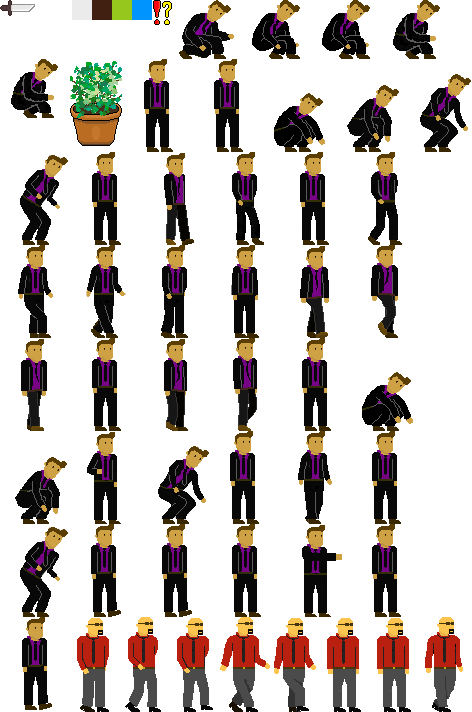
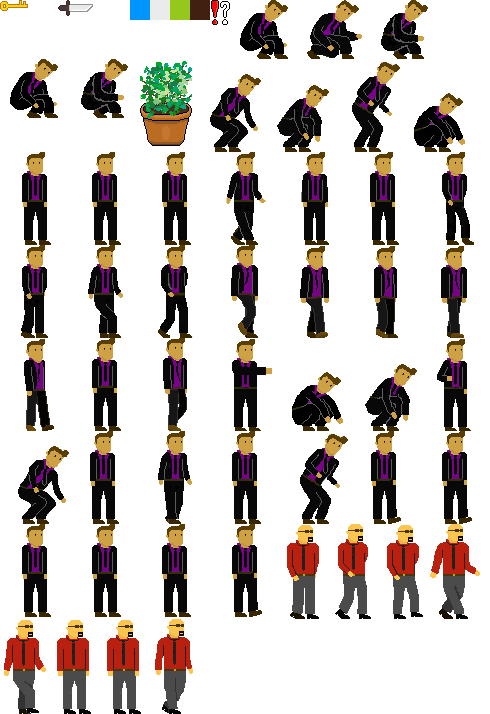
Added keys to the game.

diff --git a/Mafia House - Electric Lemon Studios/Classes/Item.cpp b/Mafia House - Electric Lemon Studios/Classes/Item.cpp
@@ -24,12 +24,7 @@ void Item::initObject(Vec2 startPos)
 	GameObject::initObject(startPos);
 	retain();
 	initRadius();
-	Texture2D::TexParams texParams = { GL_NEAREST, GL_NEAREST, GL_CLAMP_TO_EDGE, GL_CLAMP_TO_EDGE };
-	outline = Sprite::createWithSpriteFrameName("items/knife_outline.png");
-	outline->getTexture()->setTexParameters(texParams);
-	outline->setPositionNormalized(Vec2(0.5, 0.5));
-	outline->setGlobalZOrder(6);
-	addChild(outline);
+	createOutline(outlineName);
 }
 //initializing pickup radius:
 void Item::initRadius() {
@@ -48,6 +43,15 @@ void Item::initRadius() {
 	pickUpRadius->setPhysicsBody(pickUpRadiusBody);
 
 	addChild(pickUpRadius);
+}
+
+void Item::createOutline(string name) {
+	Texture2D::TexParams texParams = { GL_NEAREST, GL_NEAREST, GL_CLAMP_TO_EDGE, GL_CLAMP_TO_EDGE };
+	outline = Sprite::createWithSpriteFrameName(name);
+	outline->getTexture()->setTexParameters(texParams);
+	outline->setPositionNormalized(Vec2(0.5, 0.5));
+	outline->setGlobalZOrder(6);
+	addChild(outline);
 }
 
 //used when player picks up item
@@ -172,17 +176,35 @@ void Item::swingSequence() {
 //Knife Class:
 Knife::Knife()
 {
+	outlineName = "items/knife_outline.png";
 	Item::Item();
-	category = 32;
-	collision = 8;
 	hp = 2;
 	dmg = 5;
 	canBreakDoor = true;//temporary
 	tag = 10100;//10100 - 10199 for knives
+	effect = KILL;
 	attackType = STAB;
 	startTime = 6 FRAMES;
 	attackTime = 8 FRAMES;
 	lagTime = 10 FRAMES;
 }
 Knife::~Knife(){
+}
+
+//Knife Class:
+Key::Key()
+{
+	outlineName = "items/key_outline.png";
+	Item::Item();
+	isKey = true;
+	hp = 1;
+	dmg = 0;
+	tag = 10200;//10200 - 10299 for keys
+	effect = NONE;
+	attackType = STAB;
+	startTime = 4 FRAMES;
+	attackTime = 6 FRAMES;
+	lagTime = 6 FRAMES;
+}
+Key::~Key() {
 }

diff --git a/Mafia House - Electric Lemon Studios/Classes/Item.h b/Mafia House - Electric Lemon Studios/Classes/Item.h
@@ -12,6 +12,8 @@ public:
 	void initObject(Vec2 startPos = Vec2(0,0));
 	void initRadius();
 
+	virtual void createOutline(string name);
+
 	enum AttackType {
 		STAB,
 		SWING
@@ -66,8 +68,10 @@ public:
 
 protected:
 	State state = GROUND;
+	Effect effect = KILL;
 	Node * pickUpRadius;
 	Sprite* outline;
+	string outlineName;
 	//attack/use action parameters:
 	AttackType attackType;
 	float startTime;//startup time of attack
@@ -83,4 +87,13 @@ public:
 	CREATE_SPRITE_FUNC(Knife, "knife2.png");
 	CREATE_WITH_FRAME(Knife);
 	CREATE_WITH_FRAME_NAME(Knife, "items/knife.png");
+};
+
+class Key : public Item
+{
+public:
+	Key();
+	~Key();
+	CREATE_WITH_FRAME(Key);
+	CREATE_WITH_FRAME_NAME(Key, "items/key.png");
 };

diff --git a/Mafia House - Electric Lemon Studios/Classes/Level.cpp b/Mafia House - Electric Lemon Studios/Classes/Level.cpp
@@ -648,6 +648,9 @@ bool Level::initLevel(string filename){
 				if (pieces[1] == "knife") {
 					item = Knife::createWithSpriteFrameName();
 				}
+				else if (pieces[1] == "key") {
+					item = Key::createWithSpriteFrameName();
+				}
 				item->initObject();
 				item->roomStartPos = Vec2(atof(pieces[2].c_str()), atof(pieces[3].c_str()));
 				item->startRoom = Vec2(roomNum, floorNum);

diff --git a/Mafia House - Electric Lemon Studios/Classes/Stair.cpp b/Mafia House - Electric Lemon Studios/Classes/Stair.cpp
@@ -105,6 +105,7 @@ void Door::itemHit(Item* item) {
 		if (item->isKey == true) {//item is a key
 			unlock();
 			item->hp--;
+			item->didHitWall = false;
 		}
 		else if (item->canBreakDoor == true) {
 			hp -= item->dmg;//item deals dmg to the door
